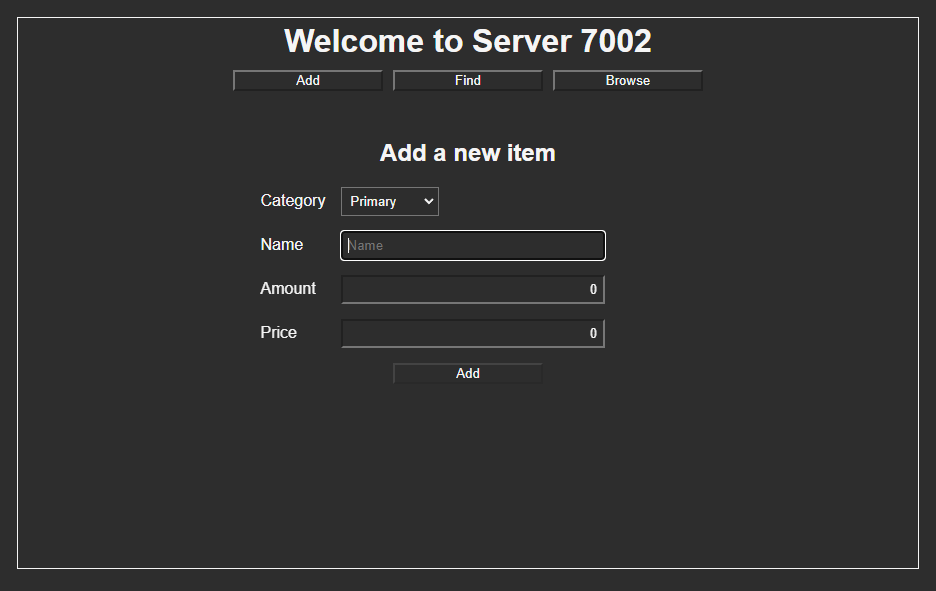
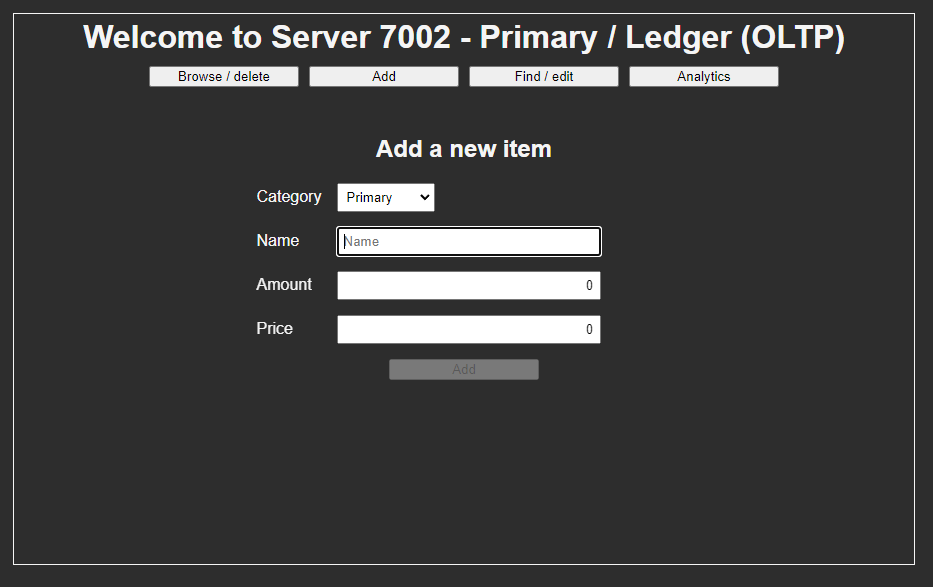
Nginx and Angular routing between modules, Angular validation

diff --git a/angular-primary/src/app/get-item/get-item.component.ts b/angular-primary/src/app/get-item/get-item.component.ts
@@ -11,7 +11,7 @@ import {ValidationService} from "../validation/validation.service";
   template: `
     <form (ngSubmit)="onSubmit()" [formGroup]="form">
       <div>
-        <h2>Find an item</h2>
+        <h2>Find / edit an item</h2>
       </div>
       <div>
         <label for="categoryId">Category</label>
@@ -45,6 +45,10 @@ import {ValidationService} from "../validation/validation.service";
                placeholder="Price"
                type="text">
       </div>
+      <div>
+        <label for="edit">Edit</label>
+        <input id="edit" type="checkbox" (change)="onChange($event)"/>
+      </div>
       <div class="plain-btn">
         <button [disabled]="form.invalid" type="submit" #submit>Find</button>
       </div>
@@ -61,6 +65,7 @@ export class GetItemComponent implements OnInit, OnDestroy, AfterViewInit {
   categories: CategoryEnum[] = CategoryArray;
   response: string = '';
   form: FormGroup;
+  editEnabled = false;
 
   constructor(private builder: FormBuilder, private http: HttpClient) {
     this.form = this.builder.group({
@@ -85,7 +90,30 @@ export class GetItemComponent implements OnInit, OnDestroy, AfterViewInit {
     this.name.nativeElement.focus();
   }
 
+  onChange(event: any) {
+    if (event.target.checked) {
+      this.form.controls['amount'].enable();
+      this.form.controls['price'].enable();
+      this.name.nativeElement.placeholder = 'Name';
+      this.submit.nativeElement.disabled = false;
+      this.submit.nativeElement.innerHTML = 'Edit';
+      this.editEnabled = true;
+    } else {
+      this.form.controls['amount'].disable();
+      this.form.controls['price'].disable();
+      this.name.nativeElement.placeholder = 'Please enter a Name';
+      this.submit.nativeElement.disabled = true;
+      this.submit.nativeElement.innerHTML = 'Find';
+      this.editEnabled = false;
+    }
+  }
+
   onSubmit() {
+    if (this.editEnabled) {
+      console.log('unimplemented');
+
+      return;
+    }
     this.getItem().then();
   }
 

diff --git a/angular-secondary/src/app/app.module.ts b/angular-secondary/src/app/app.module.ts
@@ -6,6 +6,7 @@ import {AppComponent} from './app.component';
 import {FormsModule, ReactiveFormsModule} from "@angular/forms";
 import {HttpClientModule} from "@angular/common/http";
 import {GetItemsCategoryComponent} from './get-items-category/get-items-category.component';
+import {ActivatedRouteSnapshot, RouterStateSnapshot} from "@angular/router";
 
 @NgModule({
   declarations: [
@@ -19,7 +20,14 @@ import {GetItemsCategoryComponent} from './get-items-category/get-items-category
     ReactiveFormsModule,
     HttpClientModule
   ],
-  providers: [],
+  providers: [
+    {
+      provide: 'externalUrlRedirectResolver',
+      useValue: (route: ActivatedRouteSnapshot, state: RouterStateSnapshot) => {
+        window.location.href = (route.data as any).externalUrl;
+      }
+    }
+  ],
   bootstrap: [AppComponent]
 })
 export class AppModule {

diff --git a/angular-primary/src/app/app.module.ts b/angular-primary/src/app/app.module.ts
@@ -8,6 +8,7 @@ import {HttpClientModule} from "@angular/common/http";
 import {CreateItemComponent} from './create-item/create-item.component';
 import {GetItemComponent} from './get-item/get-item.component';
 import {GetItemsComponent} from './get-items/get-items.component';
+import {ActivatedRouteSnapshot, RouterStateSnapshot} from "@angular/router";
 
 @NgModule({
   declarations: [
@@ -23,7 +24,14 @@ import {GetItemsComponent} from './get-items/get-items.component';
     ReactiveFormsModule,
     HttpClientModule
   ],
-  providers: [],
+  providers: [
+    {
+      provide: 'externalUrlRedirectResolver',
+      useValue: (route: ActivatedRouteSnapshot, state: RouterStateSnapshot) => {
+        window.location.href = (route.data as any).externalUrl;
+      }
+    }
+  ],
   bootstrap: [AppComponent]
 })
 export class AppModule {

diff --git a/angular-primary/src/app/app.component.ts b/angular-primary/src/app/app.component.ts
@@ -8,9 +8,10 @@ import {Component} from '@angular/core';
         <h1>{{ message }}</h1>
       </div>
       <div class="plain-nav">
+        <button routerLink="/browse">Browse / delete</button>
         <button routerLink="/add">Add</button>
-        <button routerLink="/find">Find</button>
-        <button routerLink="/browse">Browse</button>
+        <button routerLink="/find">Find / edit</button>
+        <button routerLink="/analytics">Analytics</button>
       </div>
       <div>
         <router-outlet></router-outlet>
@@ -20,5 +21,5 @@ import {Component} from '@angular/core';
   styles: []
 })
 export class AppComponent {
-  message = `Welcome to Server ${window.location.port}`
+  message = `Welcome to Server ${window.location.port} - Primary / Ledger (OLTP)`
 }

diff --git a/angular-primary/src/app/create-item/create-item.component.ts b/angular-primary/src/app/create-item/create-item.component.ts
@@ -66,7 +66,7 @@ export class CreateItemComponent implements OnInit, OnDestroy, AfterViewInit {
       categoryId: [{value: '', disabled: false}, [Validators.required]],
       name: [{value: '', disabled: false}, [Validators.compose([Validators.required, ValidationService.validateNameAlphaNumeric])]],
       amount: [{value: '', disabled: false}, [Validators.compose([Validators.required, ValidationService.validateNumericAndGteZero])]],
-      price: [{value: '', disabled: false}, [Validators.compose([Validators.required, ValidationService.validateNumericAndGteZero])]],
+      price: [{value: '', disabled: false}, [Validators.compose([Validators.required, ValidationService.validateDecimalAndGteZero])]],
     });
 
     this.form.patchValue(ItemRequestDefault);

diff --git a/angular-primary/src/app/app-routing.module.ts b/angular-primary/src/app/app-routing.module.ts
@@ -3,12 +3,19 @@ import {RouterModule, Routes} from '@angular/router';
 import {CreateItemComponent} from "./create-item/create-item.component";
 import {GetItemComponent} from "./get-item/get-item.component";
 import {GetItemsComponent} from "./get-items/get-items.component";
+import {AppComponent} from "./app.component";
 
 const routes: Routes = [
   {path: '', component: GetItemsComponent},
   {path: 'add', component: CreateItemComponent},
   {path: 'find', component: GetItemComponent},
   {path: 'browse', component: GetItemsComponent},
+  {
+    path: 'analytics',
+    component: AppComponent,
+    resolve: {url: 'externalUrlRedirectResolver'},
+    data: {externalUrl: 'http://localhost:8002'}
+  },
 ];
 
 @NgModule({

diff --git a/angular-secondary/src/app/get-items-category/get-items-category.component.ts b/angular-secondary/src/app/get-items-category/get-items-category.component.ts
@@ -27,8 +27,8 @@ import {ItemReqsPage} from "../../../../angular-primary/src/app/app.types";
             <tr *ngFor="let item of responseGet; let i = index">
               <td class="plain-tbl-center">{{ (i + 1) + request.page }}</td>
               <td>{{ item.name }}</td>
-              <td class="plain-tbl-right">{{ item.amount }}</td>
-              <td class="plain-tbl-right">{{ item.price }}</td>
+              <td class="plain-tbl-right">{{ item.amount  }}</td>
+              <td class="plain-tbl-right">{{ item.price | number: '1.2-2' }}</td>
             </tr>
           </ng-container>
           <ng-template #noData>

diff --git a/angular-secondary/src/app/app-routing.module.ts b/angular-secondary/src/app/app-routing.module.ts
@@ -1,10 +1,17 @@
 import {NgModule} from '@angular/core';
 import {RouterModule, Routes} from '@angular/router';
 import {GetItemsCategoryComponent} from "./get-items-category/get-items-category.component";
+import {AppComponent} from "./app.component";
 
 const routes: Routes = [
   {path: '', component: GetItemsCategoryComponent},
-  {path: 'browse', component: GetItemsCategoryComponent}
+  {path: 'browse', component: GetItemsCategoryComponent},
+  {
+    path: 'ledger',
+    component: AppComponent,
+    resolve: {url: 'externalUrlRedirectResolver'},
+    data: {externalUrl: 'http://localhost:7002'}
+  },
 ];
 
 @NgModule({

diff --git a/angular-secondary/src/app/app.component.ts b/angular-secondary/src/app/app.component.ts
@@ -9,6 +9,7 @@ import {Component} from '@angular/core';
       </div>
       <div class="plain-nav">
         <button routerLink="/browse">Browse</button>
+        <button routerLink="/ledger">Ledger</button>
       </div>
       <div>
         <router-outlet></router-outlet>
@@ -18,5 +19,5 @@ import {Component} from '@angular/core';
   styles: []
 })
 export class AppComponent {
-  message = `Welcome to Server ${window.location.port}`
+  message = `Welcome to Server ${window.location.port} - Secondary / Analytics (OLAP)`
 }

diff --git a/angular-primary/src/app/validation/validation.service.ts b/angular-primary/src/app/validation/validation.service.ts
@@ -36,4 +36,15 @@ export class ValidationService {
       return {};
     }
   }
+
+  static validateDecimalAndGteZero(control: AbstractControl): { [key: string]: any } {
+    const pattern = /[^(0-9.)]+/i;
+    if (pattern.test(control.value)) {
+      return {notNumeric: true};
+    } else if (Number(control.value) <= 0) {
+      return {notGte: true};
+    } else {
+      return {};
+    }
+  }
 }

diff --git a/angular-secondary/src/index.html b/angular-secondary/src/index.html
@@ -2,7 +2,7 @@
 <html lang="en">
 <head>
   <meta charset="utf-8">
-  <title>Secondary (OLAP)</title>
+  <title>Secondary / Analytics (OLAP)</title>
   <base href="/">
   <meta name="viewport" content="width=device-width, initial-scale=1">
   <link rel="icon" type="image/x-icon" href="favicon.ico">

diff --git a/angular-primary/src/index.html b/angular-primary/src/index.html
@@ -2,7 +2,7 @@
 <html lang="en">
 <head>
   <meta charset="utf-8">
-  <title>Primary (OLTP)</title>
+  <title>Primary / Ledger (OLTP)</title>
   <base href="/">
   <meta content="width=device-width, initial-scale=1" name="viewport">
   <link href="favicon.ico" rel="icon" type="image/x-icon">
